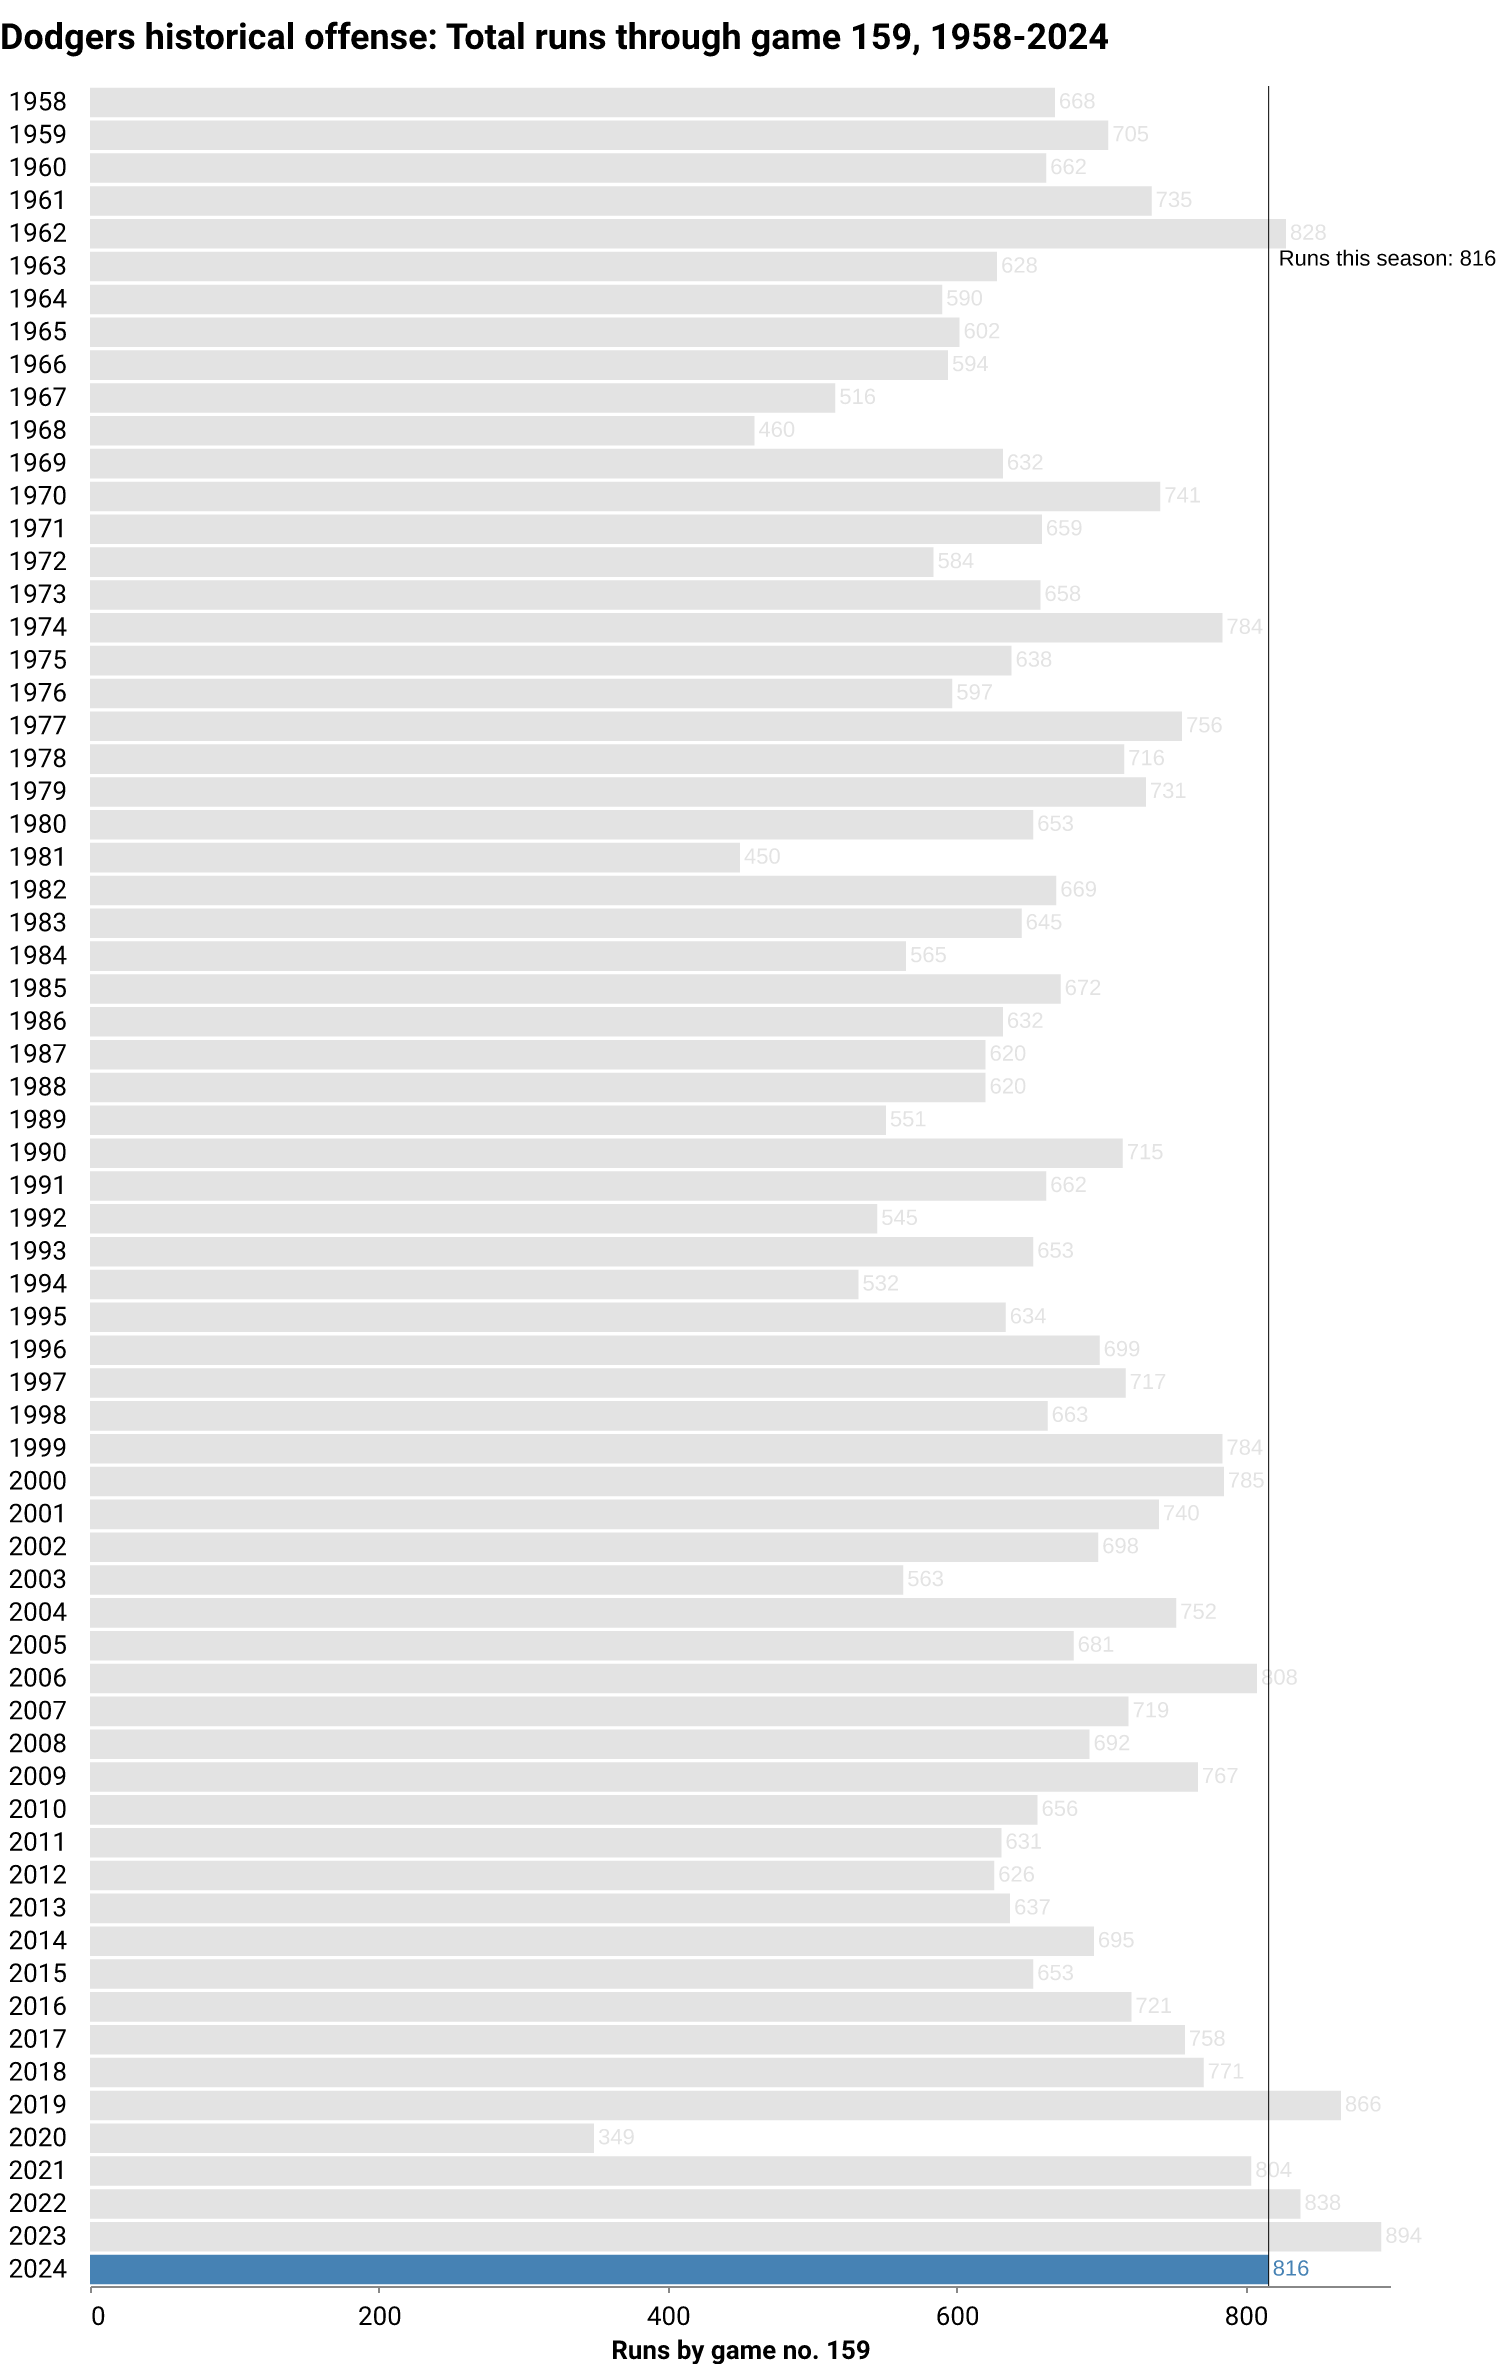
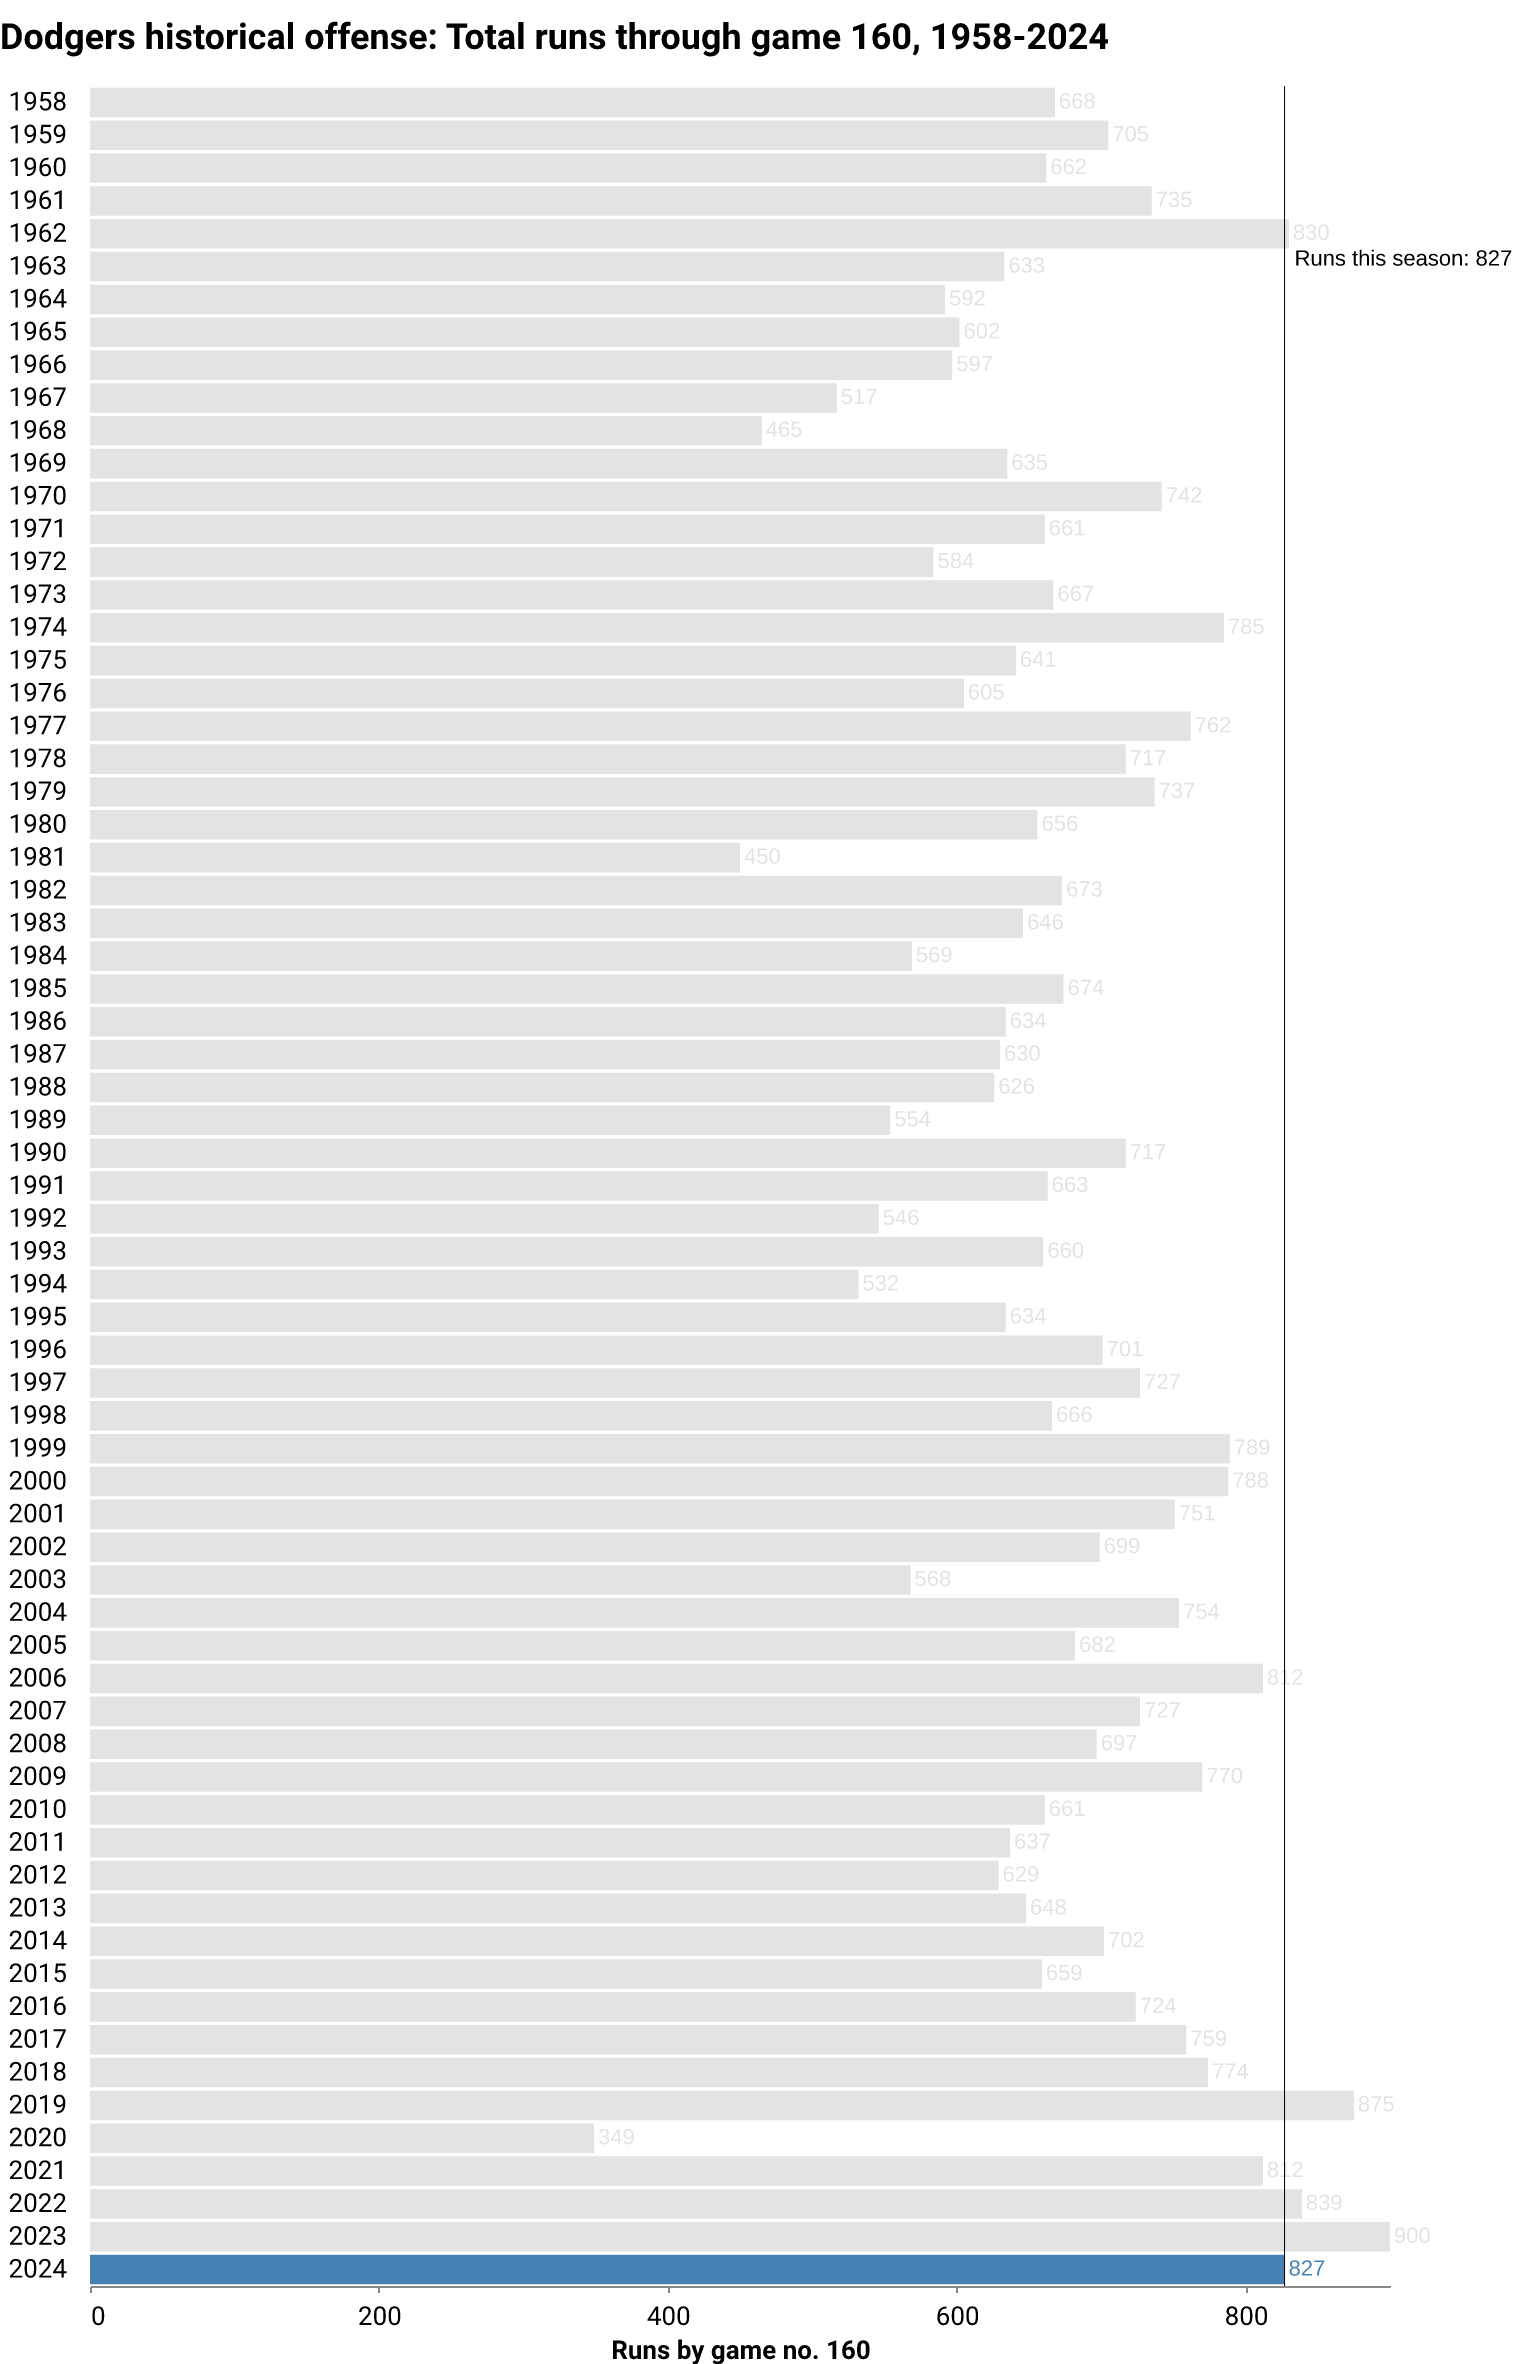
deploy: 6671b447cf3f66e0e105cf121880fa599db4e958

diff --git a/index.html b/index.html
@@ -184,7 +184,7 @@
 <p class="subhead">
     
     
-    <span class="highlight">LOS ANGELES</span> <span class="updated">(September 28)</span> — After <span class="highlight">159</span> games this season, the Dodgers are in <span class="highlight">1st</span> place in the National League West division. The team has compiled a <span class="highlight">95-64</span> record, winning <span class="highlight">60%</span> of its games so far. The last game was a <span class="highlight">7-2</span> home <span class="highlight">win</span> against the San Diego Padres in front of <span class="highlight">52,433</span> fans. They've won <span class="highlight">7 of the last 10</span>.
+    <span class="highlight">LOS ANGELES</span> <span class="updated">(September 28)</span> — After <span class="highlight">160</span> games this season, the Dodgers are in <span class="highlight">1st</span> place in the National League West division. The team has compiled a <span class="highlight">96-64</span> record, winning <span class="highlight">60%</span> of its games so far. The last game was a <span class="highlight">11-4</span> away <span class="highlight">win</span> against the Colorado Rockies in front of <span class="highlight">48,750</span> fans. They've won <span class="highlight">7 of the last 10</span>.
 </p>
 </div>
 
@@ -206,10 +206,10 @@
             Wins
           </div>
           <div class="card-body">
-            <p class="card-text">95</p>
+            <p class="card-text">96</p>
           </div>
           <div class="card-footer text-muted">
-        This point last season: 98
+        This point last season: 99
           </div>
         </div>
       </div>
@@ -238,10 +238,10 @@
             Record
           </div>
           <div class="card-body">
-            <p class="card-text">95-64</p>
+            <p class="card-text">96-64</p>
           </div>
           <div class="card-footer text-muted">
-        This point last season: 98-61
+        This point last season: 99-61
           </div>
         </div>
       </div>
@@ -302,7 +302,7 @@
             Runs
           </div>
           <div class="card-body">
-            <p class="card-text">816</p>
+            <p class="card-text">827</p>
           </div>
           <div class="card-footer text-muted">
         League rank: 2
@@ -318,10 +318,10 @@
             Runs against
           </div>
           <div class="card-body">
-            <p class="card-text">679</p>
+            <p class="card-text">683</p>
           </div>
           <div class="card-footer text-muted">
-        This point last season: 693
+        This point last season: 695
           </div>
         </div>
       </div>
@@ -334,10 +334,10 @@
             Run differential
           </div>
           <div class="card-body">
-            <p class="card-text">137</p>
+            <p class="card-text">144</p>
           </div>
           <div class="card-footer text-muted">
-        This point last season: 201
+        This point last season: 205
           </div>
         </div>
       </div>
@@ -408,7 +408,7 @@
             Batting average
           </div>
           <div class="card-body">
-            <p class="card-text">.256</p>
+            <p class="card-text">.257</p>
           </div>
           <div class="card-footer text-muted">
         Last decade average: .253
@@ -424,7 +424,7 @@
             Home runs
           </div>
           <div class="card-body">
-            <p class="card-text">227</p>
+            <p class="card-text">230</p>
           </div>
           <div class="card-footer text-muted">
         League rank: 1
@@ -440,7 +440,7 @@
             Home runs/game
           </div>
           <div class="card-body">
-            <p class="card-text">1.43</p>
+            <p class="card-text">1.44</p>
           </div>
           <div class="card-footer text-muted">
         Last decade average: 1.36
@@ -456,7 +456,7 @@
             On-base percentage
           </div>
           <div class="card-body">
-            <p class="card-text">.333</p>
+            <p class="card-text">.334</p>
           </div>
           <div class="card-footer text-muted">
         Last decade average: .332
@@ -472,7 +472,7 @@
             Stolen bases
           </div>
           <div class="card-body">
-            <p class="card-text">128</p>
+            <p class="card-text">131</p>
           </div>
           <div class="card-footer text-muted">
         League rank: 6
@@ -488,7 +488,7 @@
             Stolen bases/game
           </div>
           <div class="card-body">
-            <p class="card-text">0.81</p>
+            <p class="card-text">0.82</p>
           </div>
           <div class="card-footer text-muted">
         Rate all last season: 0.65
@@ -605,10 +605,10 @@
             Strikeouts
           </div>
           <div class="card-body">
-            <p class="card-text">1355</p>
+            <p class="card-text">1368</p>
           </div>
           <div class="card-footer text-muted">
-        League rank: 7
+        League rank: 6
           </div>
         </div>
       </div>
@@ -621,7 +621,7 @@
             Walks
           </div>
           <div class="card-body">
-            <p class="card-text">492</p>
+            <p class="card-text">497</p>
           </div>
           <div class="card-footer text-muted">
         League rank: 10
@@ -716,7 +716,7 @@
     </div>
 </div>
 
-  <p class="dated">Notes: Last updated September 28, 2024, 12:03 AM PT. More <a href="https://github.com/stiles/dodgers/blob/main/README.md">about the data</a>.</p>
+  <p class="dated">Notes: Last updated September 28, 2024, 4:03 AM PT. More <a href="https://github.com/stiles/dodgers/blob/main/README.md">about the data</a>.</p>
   
 </div>
 
